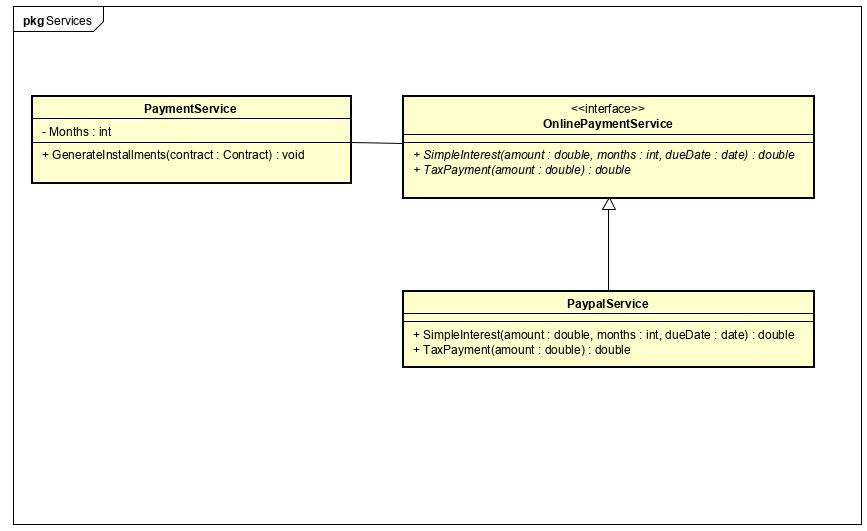
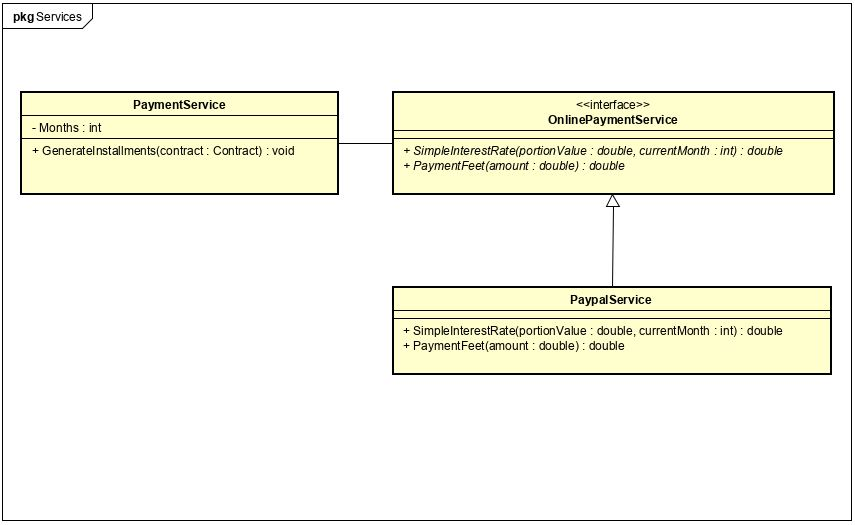
Alteracoes no nome da solution, nas classes installment, program e no diagrama PacketService.jpg

Changed region(s): [[0.0, 0.0, 1.0, 1.0]]

diff --git a/Contrato.cs/Program.cs b/Contrato.cs/Program.cs
@@ -1,4 +1,7 @@
 using System;
+using System.Globalization;
+using Contrato.Entities;
+using Contrato.Services;
 
 namespace Contrato
 {
@@ -6,7 +9,31 @@ namespace Contrato
     {
         static void Main(string[] args)
         {
-            Console.WriteLine("Hello World!");
+            try
+            {
+                Console.WriteLine("Enter contract data");
+                Console.Write("Number: ");
+                int number = int.Parse(Console.ReadLine());
+                Console.Write("Data (dd/MM/yyyy): ");
+                DateTime date = DateTime.ParseExact(Console.ReadLine(), "dd/MM/yyyy", CultureInfo.InvariantCulture);
+                Console.Write("Contract value: ");
+                double totalValue = double.Parse(Console.ReadLine(), CultureInfo.InvariantCulture);
+
+                Contract contract = new Contract(number, date, totalValue);
+
+                Console.Write("Enter number of installments: ");
+                int months = int.Parse(Console.ReadLine());
+
+                PaymentService paymentService = new PaymentService(months, new PaypalService());
+
+                Console.WriteLine("Installments: ");
+
+                paymentService.GenerateInstallments(contract);                
+            }
+            catch (Exception e)
+            {
+                Console.WriteLine(e.Message);
+            }
         }
     }
 }

diff --git a/Contrato.cs/Services/PaymentService.cs b/Contrato.cs/Services/PaymentService.cs
@@ -1,0 +1,38 @@
+using System;
+using System.Globalization;
+using Contrato.Entities;
+
+namespace Contrato.Services
+{
+    class PaymentService
+    {
+        public int Months { get; private set; }
+        private IOnlinePaymentService _onlinePaymentService;
+
+        public PaymentService(int months, IOnlinePaymentService onlinePaymentService)
+        {
+            Months = months;
+            _onlinePaymentService = onlinePaymentService;
+        }
+
+        public void GenerateInstallments(Contract contrato)
+        {
+            double portion = contrato.TotalValue / Months;
+
+            for (int i = 1; i <= Months; i++)
+            {
+                double portionAmount = _onlinePaymentService.SimpleInterestRate(portion, i);
+                double result = portion + portionAmount;
+                double tax = _onlinePaymentService.PaymentFee(result);
+                result += tax;
+                contrato.Date = contrato.Date.AddMonths(1);
+                contrato.AddInstallments(new Installment(contrato.Date, result));                
+            }
+
+            foreach (var item in contrato.ListInstallments)
+            {
+                Console.WriteLine(item);
+            }
+        }
+    }
+}

diff --git a/Contrato.cs/Entities/Installment.cs b/Contrato.cs/Entities/Installment.cs
@@ -1,10 +1,22 @@
 using System;
+using System.Globalization;
 
 namespace Contrato.Entities
 {
     class Installment
     {
-        public DateTime DueDate { get; set; }
-        public double Amount { get; set; }
+        public DateTime DueDate { get; private set; }
+        public double Amount { get; private set; }
+
+        public Installment(DateTime dueDate, double amount)
+        {
+            DueDate = dueDate;
+            Amount = amount;
+        }
+
+        public override string ToString()
+        {
+            return DueDate.ToString("dd/MM/yyyy") + " - " + Amount.ToString("F2", CultureInfo.InvariantCulture);
+        }
     }
 }

diff --git a/Contrato.cs/Services/PaypalService.cs b/Contrato.cs/Services/PaypalService.cs
@@ -1,0 +1,16 @@
+namespace Contrato.Services
+{
+    class PaypalService : IOnlinePaymentService
+    {
+        public double SimpleInterestRate(double portionValue, int currentMonth)
+        {
+            portionValue *= 0.01 * currentMonth;
+            return portionValue;
+        }
+
+        public double PaymentFee(double amount)
+        {
+            return amount *= 0.02;
+        }
+    }
+}

diff --git a/Contrato.cs/Services/IOnlinePaymentService.cs b/Contrato.cs/Services/IOnlinePaymentService.cs
@@ -1,0 +1,10 @@
+using System;
+
+namespace Contrato.Services
+{
+    interface IOnlinePaymentService
+    {
+        double SimpleInterestRate(double portionValue, int currentMonth);
+        double PaymentFee(double amount);
+    }
+}
